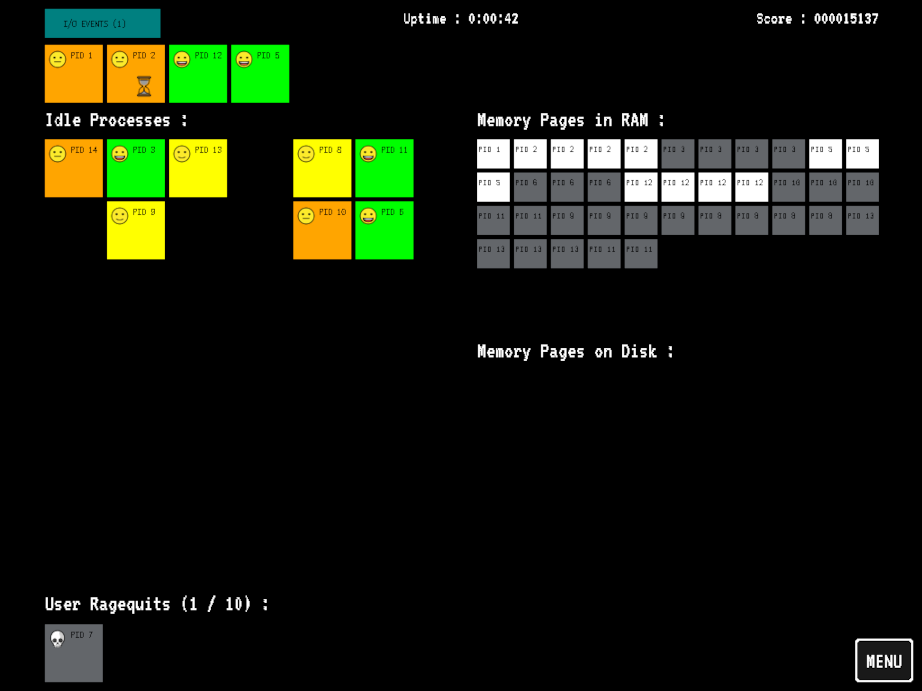
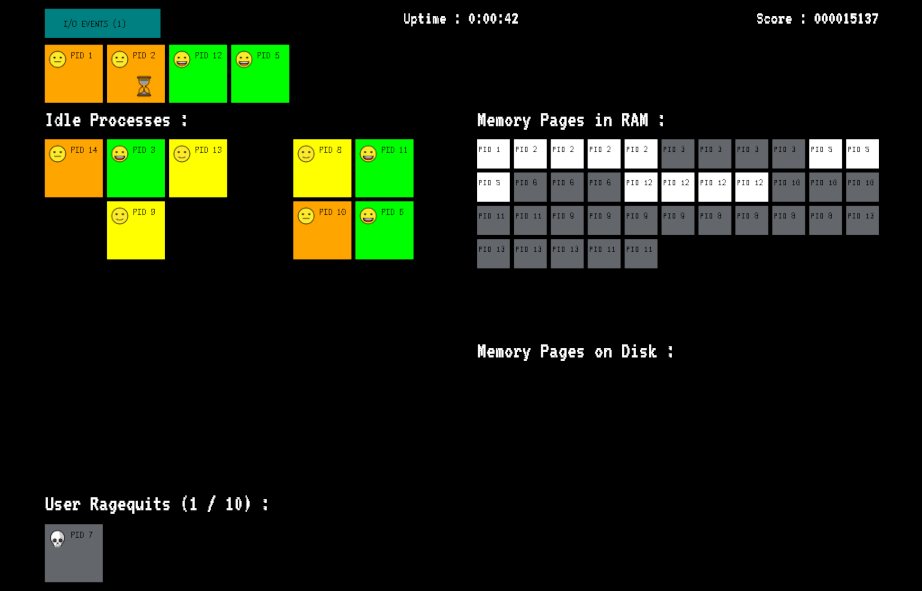
Change screen ratio to 16:9 (#56)

diff --git a/src/game_objects/page_manager.py b/src/game_objects/page_manager.py
@@ -4,8 +4,7 @@ from game_objects.page import Page
 from game_objects.page_slot import PageSlot
 
 class PageManager(GameObject):
-    _MAX_PAGES= 156
-    _TOTAL_ROWS = 13
+    _TOTAL_ROWS = 10
     
     def __init__(self, game):
         self._game = game
@@ -18,8 +17,6 @@ class PageManager(GameObject):
         self._pages_in_swap_label_xy = None
         
         super().__init__(PageManagerView(self))
-        
-        self._setup()
 
     @property
     def pages_in_ram_label_xy(self):
@@ -29,14 +26,16 @@ class PageManager(GameObject):
     def pages_in_swap_label_xy(self):
         return self._pages_in_swap_label_xy
                
-    def _setup(self):        
+    def setup(self):        
         self._pages_in_ram_label_xy = (self._game.process_manager.view.width, 120)
         
         num_ram_rows = self._game.config['num_ram_rows']
         num_swap_rows = self._TOTAL_ROWS - num_ram_rows
+        
+        num_cols = 16
              
         for row in range(num_ram_rows):
-            for column in range(11):
+            for column in range(num_cols):
                 ram_slot = PageSlot()          
                 x = self._game.process_manager.view.width + column * ram_slot.view.width + column * 5
                 y = 155 + row * ram_slot.view.height + row * 5
@@ -45,10 +44,10 @@ class PageManager(GameObject):
         self.children.extend(self._ram_slots)
         
         if num_swap_rows > 0:
-            self._pages_in_swap_label_xy = (self._game.process_manager.view.width, 155 + num_ram_rows * PageSlot().view.height + num_ram_rows * 5)
+            self._pages_in_swap_label_xy = (self._game.process_manager.view.width, 164 + num_ram_rows * PageSlot().view.height + num_ram_rows * 5)
             
             for row in range(num_swap_rows):
-                for column in range(11):
+                for column in range(num_cols):
                     swap_slot = PageSlot()          
                     x = self._game.process_manager.view.width + column * ram_slot.view.width + column * 5
                     y = self._pages_in_swap_label_xy[1] + 35 + row * ram_slot.view.height + row * 5

diff --git a/src/game_objects/process_manager.py b/src/game_objects/process_manager.py
@@ -8,9 +8,10 @@ from game_objects.io_queue import IoQueue
 from game_objects.process import Process
 from game_objects.views.process_manager_view import ProcessManagerView
 from game_objects.process_slot import ProcessSlot
+from window_size import WINDOW_HEIGHT
 
 class ProcessManager(GameObject):
-    _MAX_PROCESSES = 36
+    _MAX_PROCESSES = 42
     
     MAX_TERMINATED_BY_USER = 10
     
@@ -37,8 +38,10 @@ class ProcessManager(GameObject):
             self._max_wait_between_new_processes = inf
                
         super().__init__(ProcessManagerView(self))
-        
-        self._setup()
+
+    @property
+    def game(self):
+        return self._game
 
     @property
     def cpu_list(self):
@@ -56,7 +59,7 @@ class ProcessManager(GameObject):
     def user_terminated_process_count(self):
         return self._user_terminated_process_count
     
-    def _setup(self):
+    def setup(self):
         self._cpu_list = []
         self._alive_process_list = []
         self._process_slots = []
@@ -81,8 +84,8 @@ class ProcessManager(GameObject):
         io_queue.view.set_xy(50, 10)
         self.children.append(io_queue)       
 
-        for row in range(7):
-            for column in range(6):
+        for row in range(6):
+            for column in range(7):
                 process_slot = ProcessSlot()          
                 x = 50 + column * process_slot.view.width + column * 5
                 y = 155 + row * process_slot.view.height + row * 5
@@ -93,7 +96,7 @@ class ProcessManager(GameObject):
         for i in range(self.MAX_TERMINATED_BY_USER):
             process_slot = ProcessSlot()
             x = 50 + i * process_slot.view.width + i * 5
-            y = 694
+            y = WINDOW_HEIGHT - process_slot.view.height - 20
             process_slot.view.set_xy(x, y)
             self._user_terminated_process_slots.append(process_slot)
         self.children.extend(self._user_terminated_process_slots)        

diff --git a/src/difficulty_levels.py b/src/difficulty_levels.py
@@ -2,8 +2,8 @@ _easy_difficulty = {
     'name': 'Easy',
     'config': {
         'num_cpus': 4,
-        'num_processes_at_startup': 12,
-        'num_ram_rows': 12,
+        'num_processes_at_startup': 14,
+        'num_ram_rows': 8,
         'new_process_probability': 0.05,
         'io_probability': 0.05
     }
@@ -13,8 +13,8 @@ _normal_difficulty = {
     'name': 'Normal',
     'config': {
         'num_cpus': 4,
-        'num_processes_at_startup': 12,
-        'num_ram_rows': 6,
+        'num_processes_at_startup': 14,
+        'num_ram_rows': 5,
         'new_process_probability': 0.05,
         'io_probability': 0.1
     }
@@ -24,7 +24,7 @@ _hard_difficulty = {
     'name': 'Hard',
     'config': {
         'num_cpus': 8,
-        'num_processes_at_startup': 24,
+        'num_processes_at_startup': 28,
         'num_ram_rows': 6,
         'new_process_probability': 0.1,
         'io_probability': 0.1
@@ -35,7 +35,7 @@ _harder_difficulty = {
     'name': 'Harder',
     'config': {
         'num_cpus': 12,
-        'num_processes_at_startup': 30,
+        'num_processes_at_startup': 35,
         'num_ram_rows': 6,
         'new_process_probability': 0.2,
         'io_probability': 0.2
@@ -45,8 +45,8 @@ _harder_difficulty = {
 _insane_difficulty = {
     'name': 'Insane',
     'config': {
-        'num_cpus': 12,
-        'num_processes_at_startup': 36,
+        'num_cpus': 16,
+        'num_processes_at_startup': 42,
         'num_ram_rows': 4,
         'new_process_probability': 1,
         'io_probability': 0.3

diff --git a/src/game_objects/views/process_manager_view.py b/src/game_objects/views/process_manager_view.py
@@ -1,6 +1,9 @@
 from lib.drawable import Drawable
 from lib.ui.color import Color
 from lib.ui.fonts import FONT_PRIMARY_LARGE
+from game_objects.process import Process
+from game_objects.views.process_view import ProcessView
+from window_size import WINDOW_WIDTH, WINDOW_HEIGHT
 
 class ProcessManagerView(Drawable):
     def __init__(self, process_manager):
@@ -8,14 +11,15 @@ class ProcessManagerView(Drawable):
         super().__init__()
              
         self._idle_processes_text_surface = FONT_PRIMARY_LARGE.render('Idle Processes :', False, Color.WHITE)
+        self._PROCESS_VIEW_HEIGHT = ProcessView(Process(0, process_manager.game)).height
 
     @property
     def width(self):
-        return 530
+        return WINDOW_WIDTH - self._process_manager.game.page_manager.view.width
 
     @property
     def height(self):
-        return 768
+        return WINDOW_HEIGHT
 
     def draw(self, surface):
         terminated_processes_text = 'User Ragequits ({0} / {1}) :'.format(
@@ -26,4 +30,7 @@ class ProcessManagerView(Drawable):
         terminated_processes_text_surface = FONT_PRIMARY_LARGE.render(terminated_processes_text, False, Color.WHITE)
         
         surface.blit(self._idle_processes_text_surface, (50, 120))
-        surface.blit(terminated_processes_text_surface, (50, 658))
+        surface.blit(terminated_processes_text_surface, (
+            50,
+            WINDOW_HEIGHT - self._PROCESS_VIEW_HEIGHT - terminated_processes_text_surface.get_height() - 30
+        ))

diff --git a/src/game_objects/custom_settings_dialog.py b/src/game_objects/custom_settings_dialog.py
@@ -14,13 +14,13 @@ class CustomSettingsDialog(GameObject):
         else:
             self._config = default_difficulty['config']
         
-        self._num_cpus_selector = OptionSelector([str(i) for i in range(1, 13)], self._config['num_cpus'] - 1)
+        self._num_cpus_selector = OptionSelector([str(i) for i in range(1, 17)], self._config['num_cpus'] - 1)
         self.children.append(self._num_cpus_selector)
         
-        self._num_processes_selector = OptionSelector([str(i) for i in range(1, 37)], self._config['num_processes_at_startup'] - 1)
+        self._num_processes_selector = OptionSelector([str(i) for i in range(1, 43)], self._config['num_processes_at_startup'] - 1)
         self.children.append(self._num_processes_selector)
         
-        self._num_ram_rows_selector = OptionSelector([str(i) for i in range(1, 14)], self._config['num_ram_rows'] - 1)
+        self._num_ram_rows_selector = OptionSelector([str(i) for i in range(1, 11)], self._config['num_ram_rows'] - 1)
         self.children.append(self._num_ram_rows_selector)
         
         self._new_process_probability_selector = OptionSelector([str(i) + ' %' for i in range(0, 105, 5)])

diff --git a/src/game_objects/views/how_to_play_part_view.py b/src/game_objects/views/how_to_play_part_view.py
@@ -4,7 +4,7 @@ import pygame
 from lib.ui.color import Color
 from lib.drawable import Drawable
 from lib.ui.fonts import FONT_SECONDARY_SMALL
-
+from window_size import WINDOW_WIDTH, WINDOW_HEIGHT
 
 class HowToPlayPartView(Drawable):
     def __init__(self, how_to_play_part):
@@ -22,11 +22,11 @@ class HowToPlayPartView(Drawable):
         
     @property
     def width(self):
-        return 1024
+        return WINDOW_WIDTH
 
     @property
     def height(self):
-        return 768
+        return WINDOW_HEIGHT
 
     def draw(self, surface):
         surface.blit(self._images[self._how_to_play_part.current_image_id], (
@@ -39,13 +39,13 @@ class HowToPlayPartView(Drawable):
             Color.YELLOW,
             pygame.Rect(
                 self.x + 50,
-                self.y + self.height - 66,
+                self.y + self.height - 82,
                 self.width - 100,
                 58
             )
         )
         
-        y = self.height - 62
+        y = self.height - 80
         for text_surface in self._text_surfaces:
             surface.blit(text_surface, (
                 self.x + (self.width - text_surface.get_width()) / 2,

diff --git a/src/scenes/game.py b/src/scenes/game.py
@@ -43,9 +43,12 @@ class Game(Scene):
         self._game_over_dialog = None
         
         self._process_manager = ProcessManager(self)
+        self._page_manager = PageManager(self)
+        
+        self._process_manager.setup()
         self._scene_objects.append(self._process_manager)
         
-        self._page_manager = PageManager(self)
+        self._page_manager.setup()
         self._scene_objects.append(self._page_manager)
         
         self._score_manager = ScoreManager(self)
@@ -57,7 +60,7 @@ class Game(Scene):
         open_in_game_menu_button = Button('Menu', self._open_in_game_menu)
         open_in_game_menu_button.view.set_xy(
             self._screen.get_width() - open_in_game_menu_button.view.width - 10,
-            self._screen.get_height() - open_in_game_menu_button.view.height - 10
+            10
         )
         self._scene_objects.append(open_in_game_menu_button)
    

diff --git a/src/scenes/how_to_play.py b/src/scenes/how_to_play.py
@@ -171,14 +171,14 @@ class HowToPlay(Scene):
         self._previous_button = Button('<', self._go_to_previous_part)
         self._previous_button.view.set_xy(
             52,
-            self._screen.get_height() - 62
+            self._screen.get_height() - 78
         )
         self._scene_objects.append(self._previous_button)
         
         self._next_button = Button('>', self._go_to_next_part)
         self._next_button.view.set_xy(
             self._screen.get_width() - self._next_button.view.width - 52,
-            self._screen.get_height() - 62
+            self._screen.get_height() - 78
         )
         self._scene_objects.append(self._next_button)
         

diff --git a/src/game_objects/views/page_manager_view.py b/src/game_objects/views/page_manager_view.py
@@ -1,6 +1,7 @@
 from lib.drawable import Drawable
 from lib.ui.color import Color
 from lib.ui.fonts import FONT_PRIMARY_LARGE
+from window_size import WINDOW_HEIGHT
 
 class PageManagerView(Drawable):
     def __init__(self, page_manager):
@@ -12,11 +13,11 @@ class PageManagerView(Drawable):
 
     @property
     def width(self):
-        return 494
+        return 691
 
     @property
     def height(self):
-        return 768
+        return WINDOW_HEIGHT
 
     def draw(self, surface):
         surface.blit(self._pages_in_ram_text_surface, self._page_manager.pages_in_ram_label_xy)

diff --git a/src/main.py b/src/main.py
@@ -10,14 +10,12 @@ from scenes.how_to_play import HowToPlay
 from scenes.main_menu import MainMenu
 from scene_manager import scene_manager
 from game_info import TITLE
+from window_size import WINDOW_SIZE
 
 pygame.init()
 pygame.font.init()
 
-window_width = 1024
-window_height = 768
-screen_size = (window_width, window_height)
-screen = pygame.display.set_mode(screen_size)
+screen = pygame.display.set_mode(WINDOW_SIZE)
 
 icon = pygame.image.load(path.join('assets', 'icon.png'))
 pygame.display.set_caption(TITLE)

diff --git a/src/game_objects/views/main_menu_title_view.py b/src/game_objects/views/main_menu_title_view.py
@@ -4,6 +4,7 @@ import pygame
 from game_info import TITLE
 from lib.drawable import Drawable
 from lib.ui.fonts import FONT_PRIMARY_XXLARGE
+from window_size import WINDOW_WIDTH
 
 _icon_image = pygame.image.load(path.join('assets', 'icon.png'))
 
@@ -19,7 +20,7 @@ class MainMenuTitleView(Drawable):
 
     @property
     def width(self):
-        return 1024
+        return WINDOW_WIDTH
 
     @property
     def height(self):

diff --git a/src/window_size.py b/src/window_size.py
@@ -1,0 +1,3 @@
+WINDOW_WIDTH = 1280
+WINDOW_HEIGHT = 720
+WINDOW_SIZE = (WINDOW_WIDTH, WINDOW_HEIGHT)
